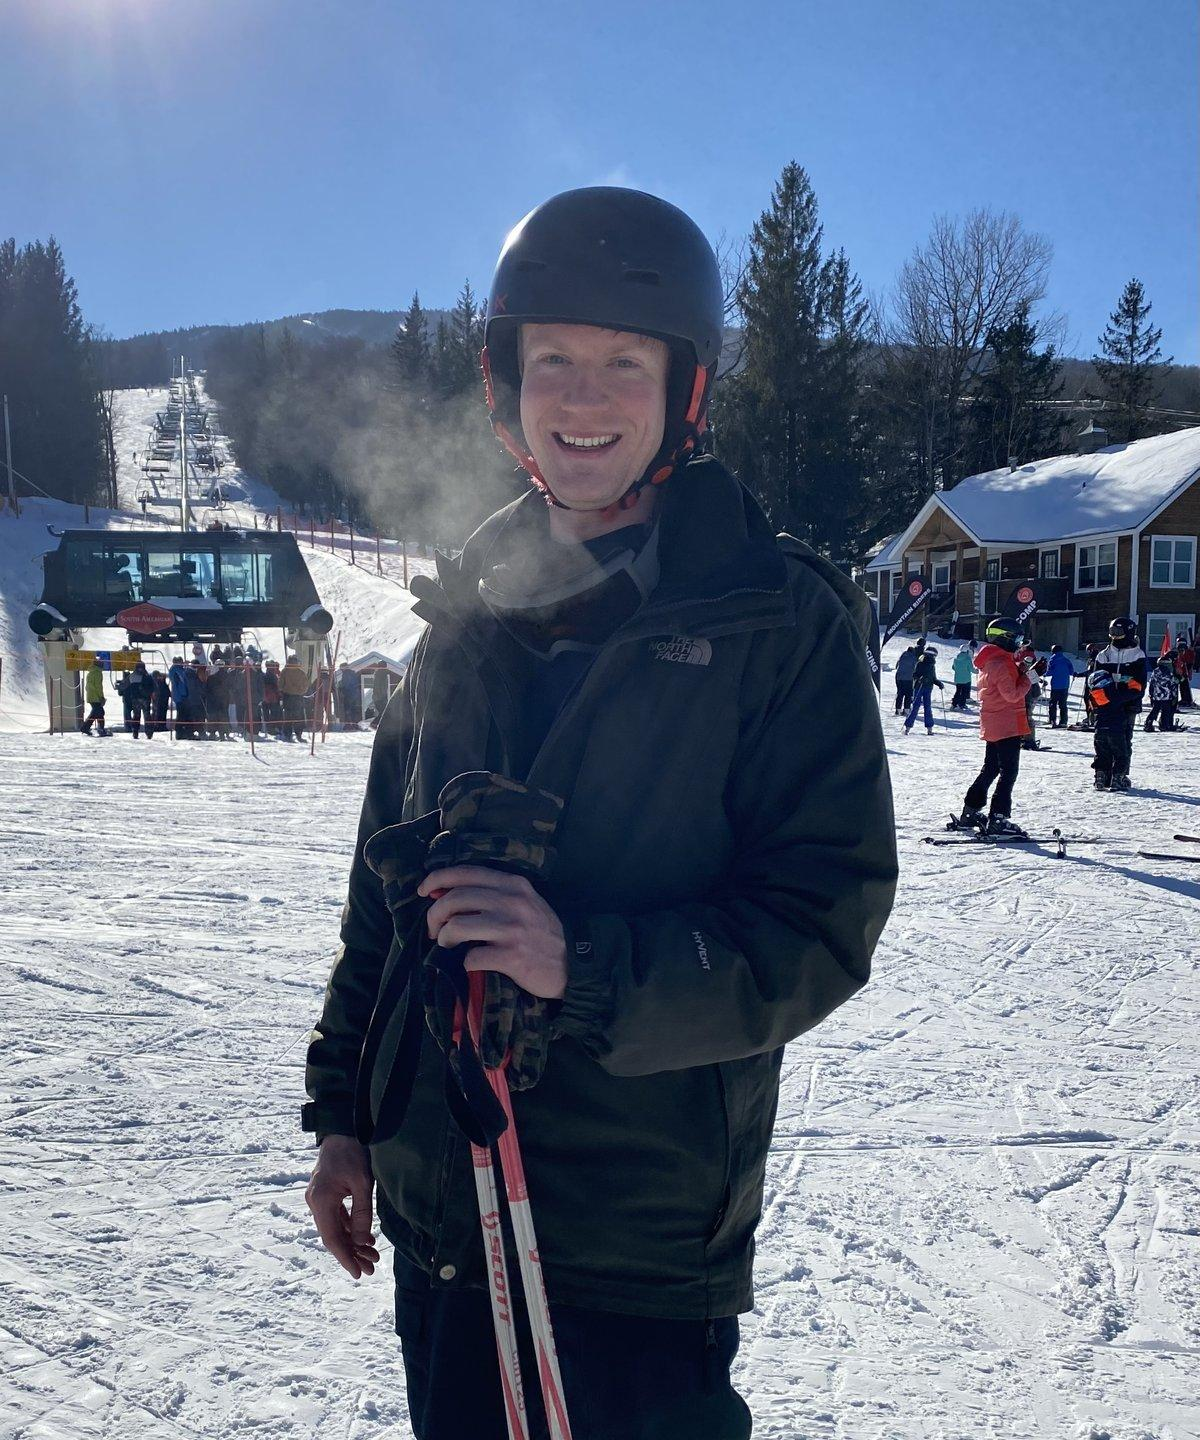
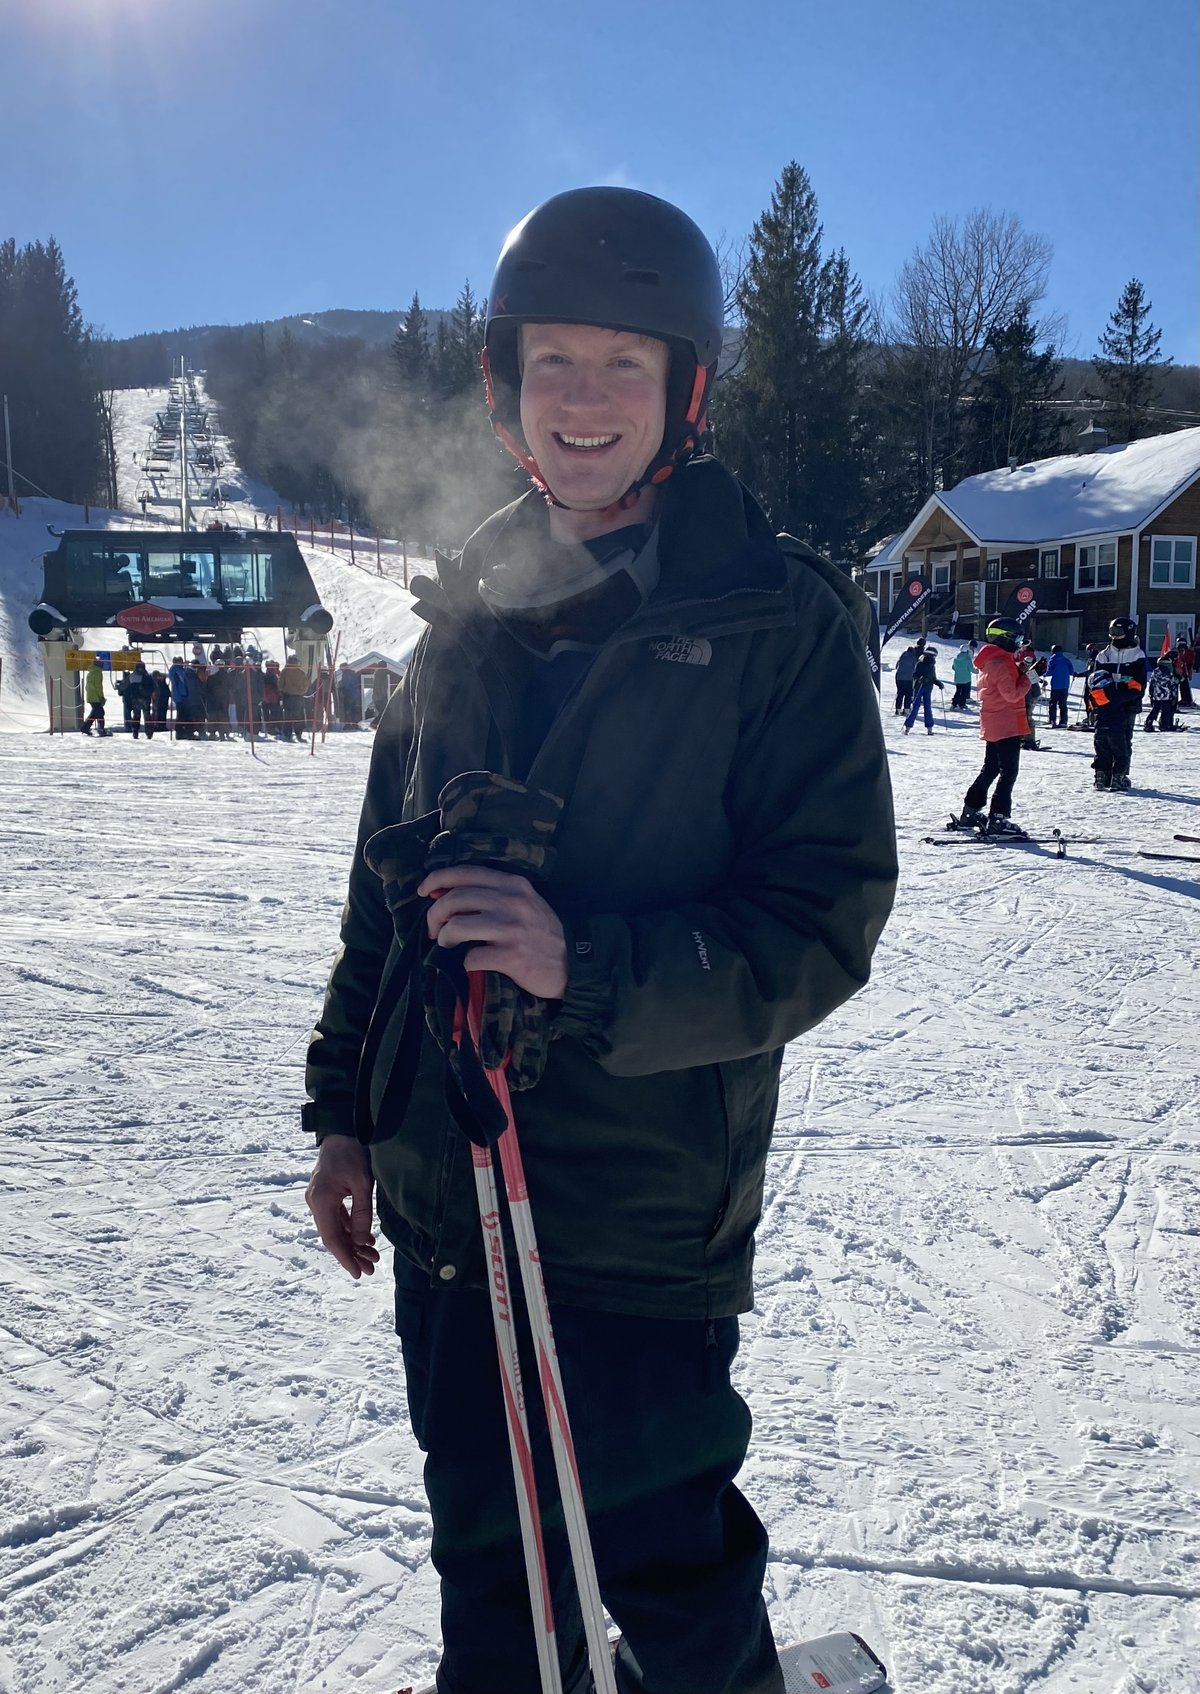
Improve photo gallery layout and randomize photo order
- Change photo grid to fixed 3 columns (2 on tablets, 1 on mobile) for better vertical photo display
- Increase photo height from 220px to 350px to prevent cropping heads on vertical photos
- Restore uncropped versions of photos 7 (skiing) and 27 (gator golf)
- Randomize photo order for more dynamic gallery presentation

diff --git a/assets/css/main.css b/assets/css/main.css
@@ -633,8 +633,20 @@ section h2 {
 
 .photo-grid {
   display: grid;
-  grid-template-columns: repeat(auto-fill, minmax(280px, 1fr));
+  grid-template-columns: repeat(3, 1fr);
   gap: 1.5rem;
+}
+
+@media (max-width: 768px) {
+  .photo-grid {
+    grid-template-columns: repeat(2, 1fr);
+  }
+}
+
+@media (max-width: 480px) {
+  .photo-grid {
+    grid-template-columns: 1fr;
+  }
 }
 
 .photo-item {
@@ -656,7 +668,7 @@ section h2 {
 
 .photo-image {
   width: 100%;
-  height: 220px;
+  height: 350px;
   object-fit: cover;
 }
 
